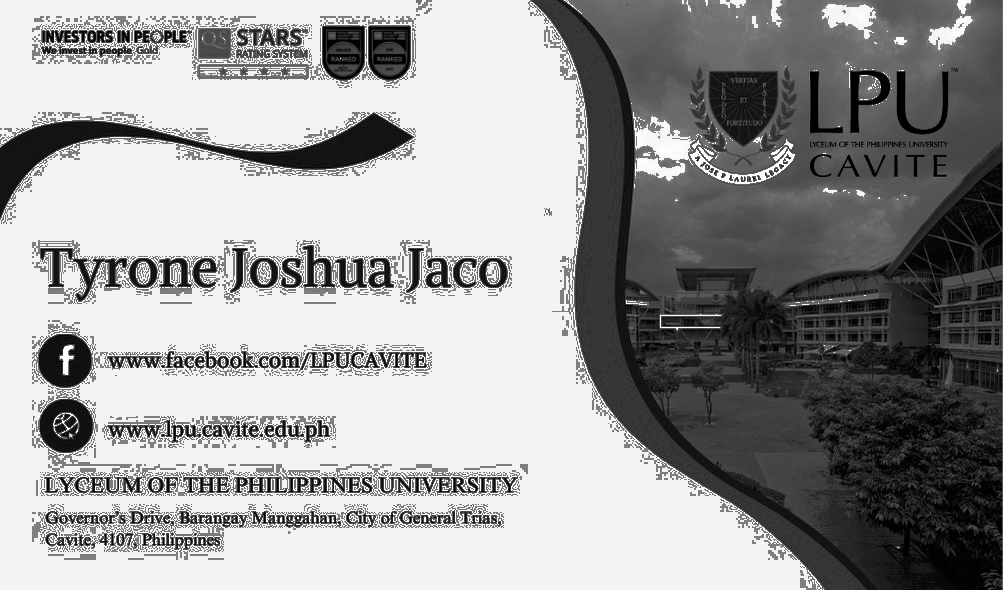
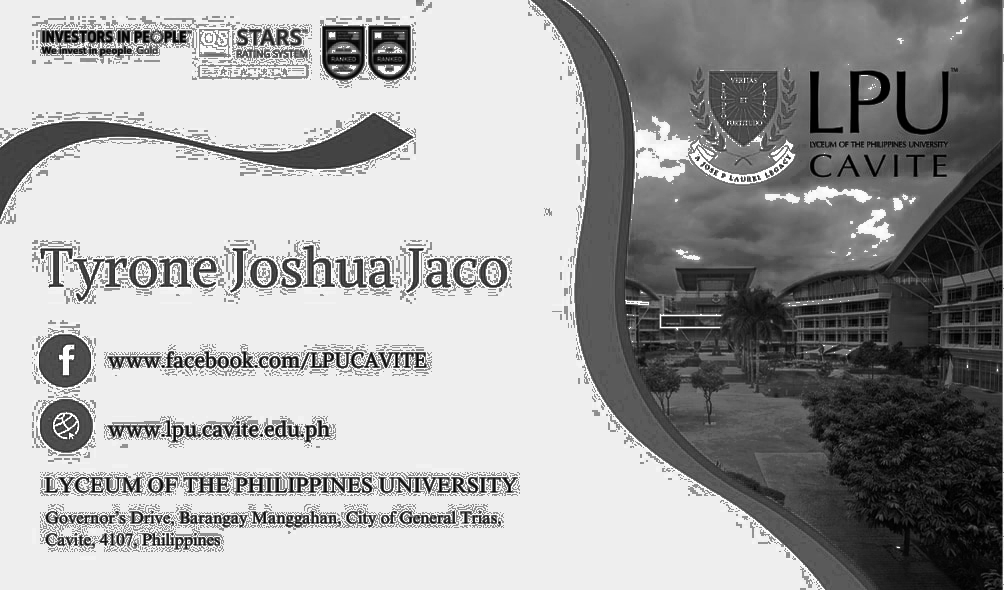
updated histogram

diff --git a/controllers/uploadController.js b/controllers/uploadController.js
@@ -31,49 +31,41 @@ var client = vuforia.client({
 // util for base64 encoding and decoding
 var util = vuforia.util();
 
-const applyHistogramEqualization = async (filePath) => {
+const applyHistogramEqualization = async (filePath, blendRatio = 0.8) => {
   try {
     const image = await Jimp.read(filePath);
 
     // Access the raw pixel data
-    const pixels = image.bitmap.data; // RGBA array
-
-    // Convert to grayscale manually
-    for (let i = 0; i < pixels.length; i += 4) {
-      const r = pixels[i];
-      const g = pixels[i + 1];
-      const b = pixels[i + 2];
-      const gray = Math.round(0.299 * r + 0.587 * g + 0.114 * b);
-      pixels[i] = gray;
-      pixels[i + 1] = gray;
-      pixels[i + 2] = gray;
-    }
+    const { data: pixels, width, height } = image.bitmap;
+    const histogram = new Array(256).fill(0);
+    const cdf = new Array(256).fill(0);
 
     // Step 1: Compute Histogram
-    const histogram = new Array(256).fill(0);
     for (let i = 0; i < pixels.length; i += 4) {
-      histogram[pixels[i]]++;
+      const intensity = pixels[i]; // Grayscale (assuming already converted to grayscale)
+      histogram[intensity]++;
     }
 
     // Step 2: Compute Cumulative Distribution Function (CDF)
-    const cdf = [];
-    histogram.reduce((acc, value, index) => {
-      cdf[index] = acc + value;
-      return cdf[index];
-    }, 0);
+    cdf[0] = histogram[0];
+    for (let i = 1; i < 256; i++) {
+      cdf[i] = cdf[i - 1] + histogram[i];
+    }
 
-    const cdfMin = cdf.find((value) => value > 0);
-    const cdfMax = cdf[255];
-    const normalizedCdf = cdf.map((value) =>
-      Math.round(((value - cdfMin) / (cdfMax - cdfMin)) * 255)
-    );
+    // Normalize CDF (stretch to full range 0-255)
+    const minCDF = cdf[0];
+    const maxCDF = cdf[255];
+    for (let i = 0; i < cdf.length; i++) {
+      cdf[i] = Math.round(((cdf[i] - minCDF) * 255) / (maxCDF - minCDF));
+    }
 
-    // Step 3: Apply Equalization
+    // Step 3: Apply Equalization with Blending
     for (let i = 0; i < pixels.length; i += 4) {
-      const equalizedValue = normalizedCdf[pixels[i]];
-      pixels[i] = equalizedValue;
-      pixels[i + 1] = equalizedValue;
-      pixels[i + 2] = equalizedValue;
+      const intensity = pixels[i];
+      const equalizedValue = Math.round(
+        blendRatio * cdf[intensity] + (1 - blendRatio) * intensity
+      );
+      pixels[i] = pixels[i + 1] = pixels[i + 2] = equalizedValue; // RGB channels
     }
 
     // Save the modified image
@@ -130,7 +122,7 @@ exports.getCard = (req, res) => {
 
 // UPLOAD
 exports.uploadCard = async (req, res) => {
-  histogramName = await applyHistogramEqualization(req.file.path);
+  histogramName = await applyHistogramEqualization(req.file.path, 0.8);
 
   try {
     const target = {
